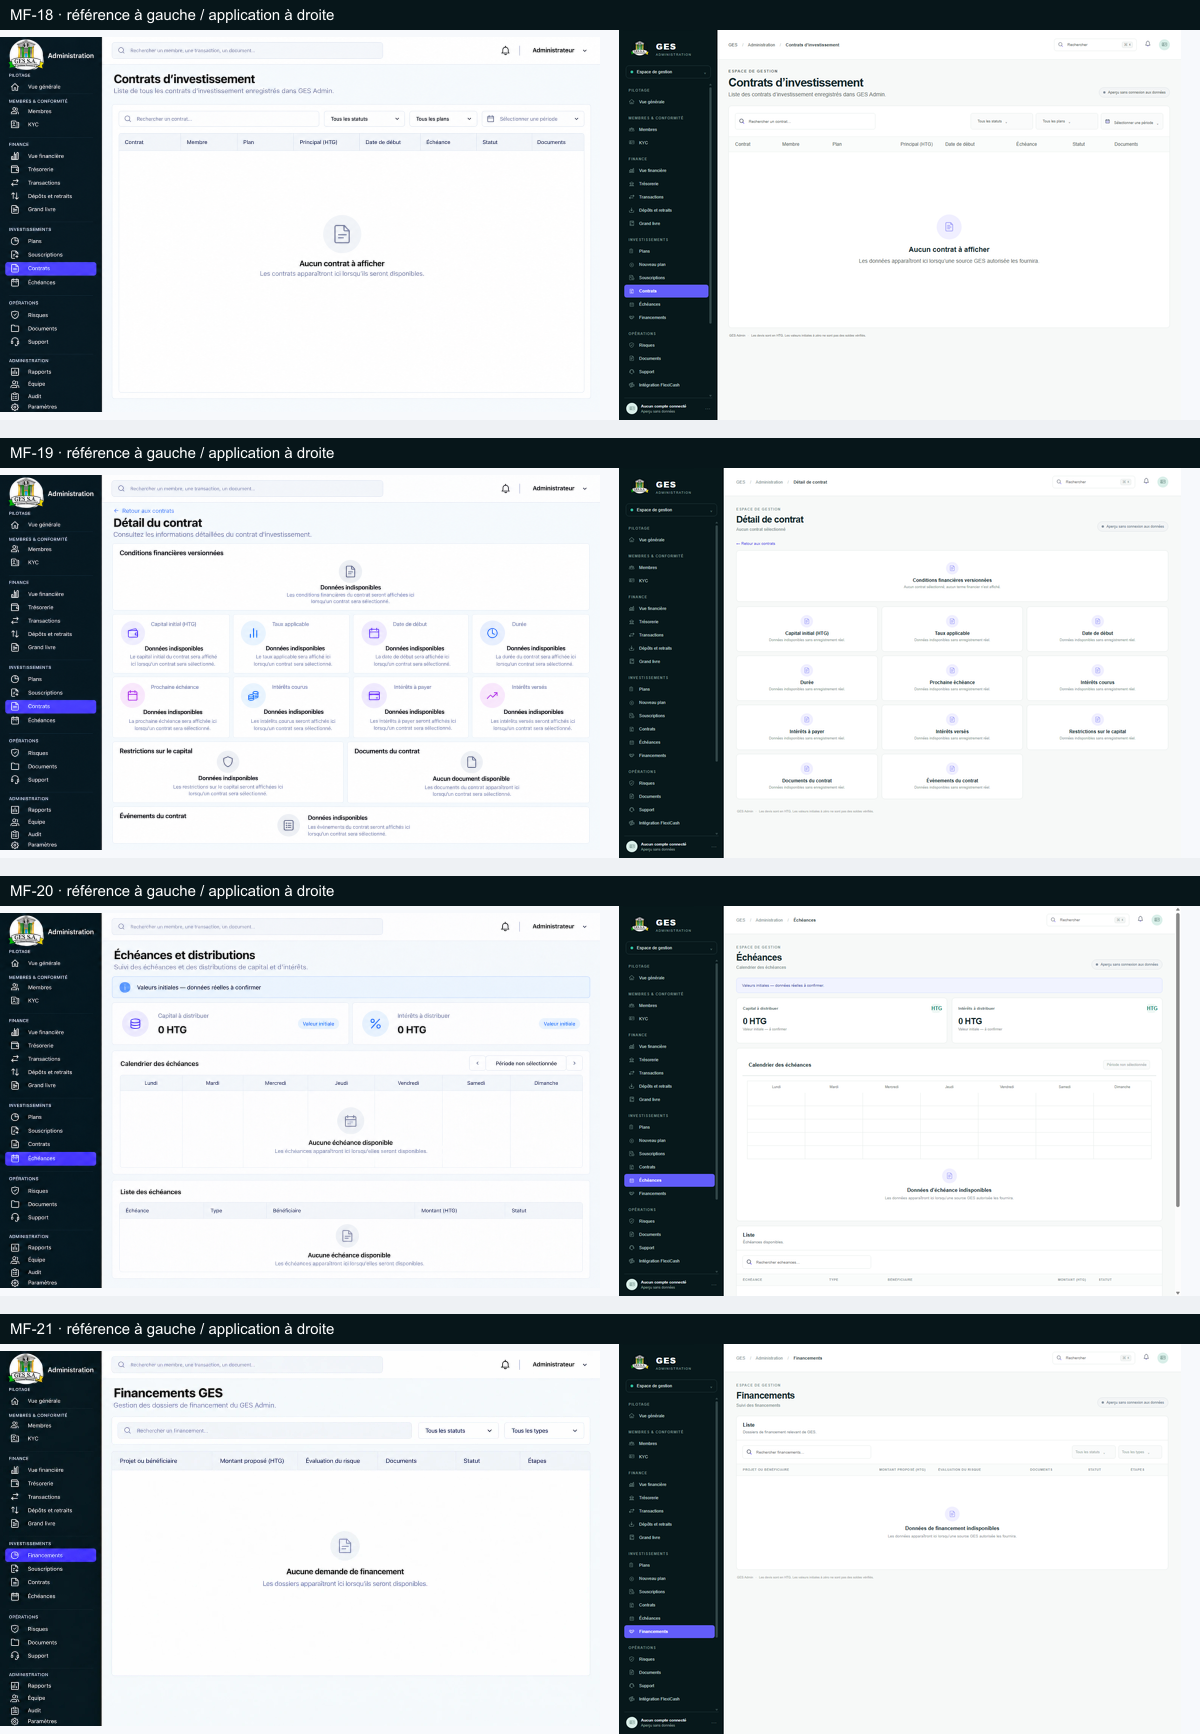
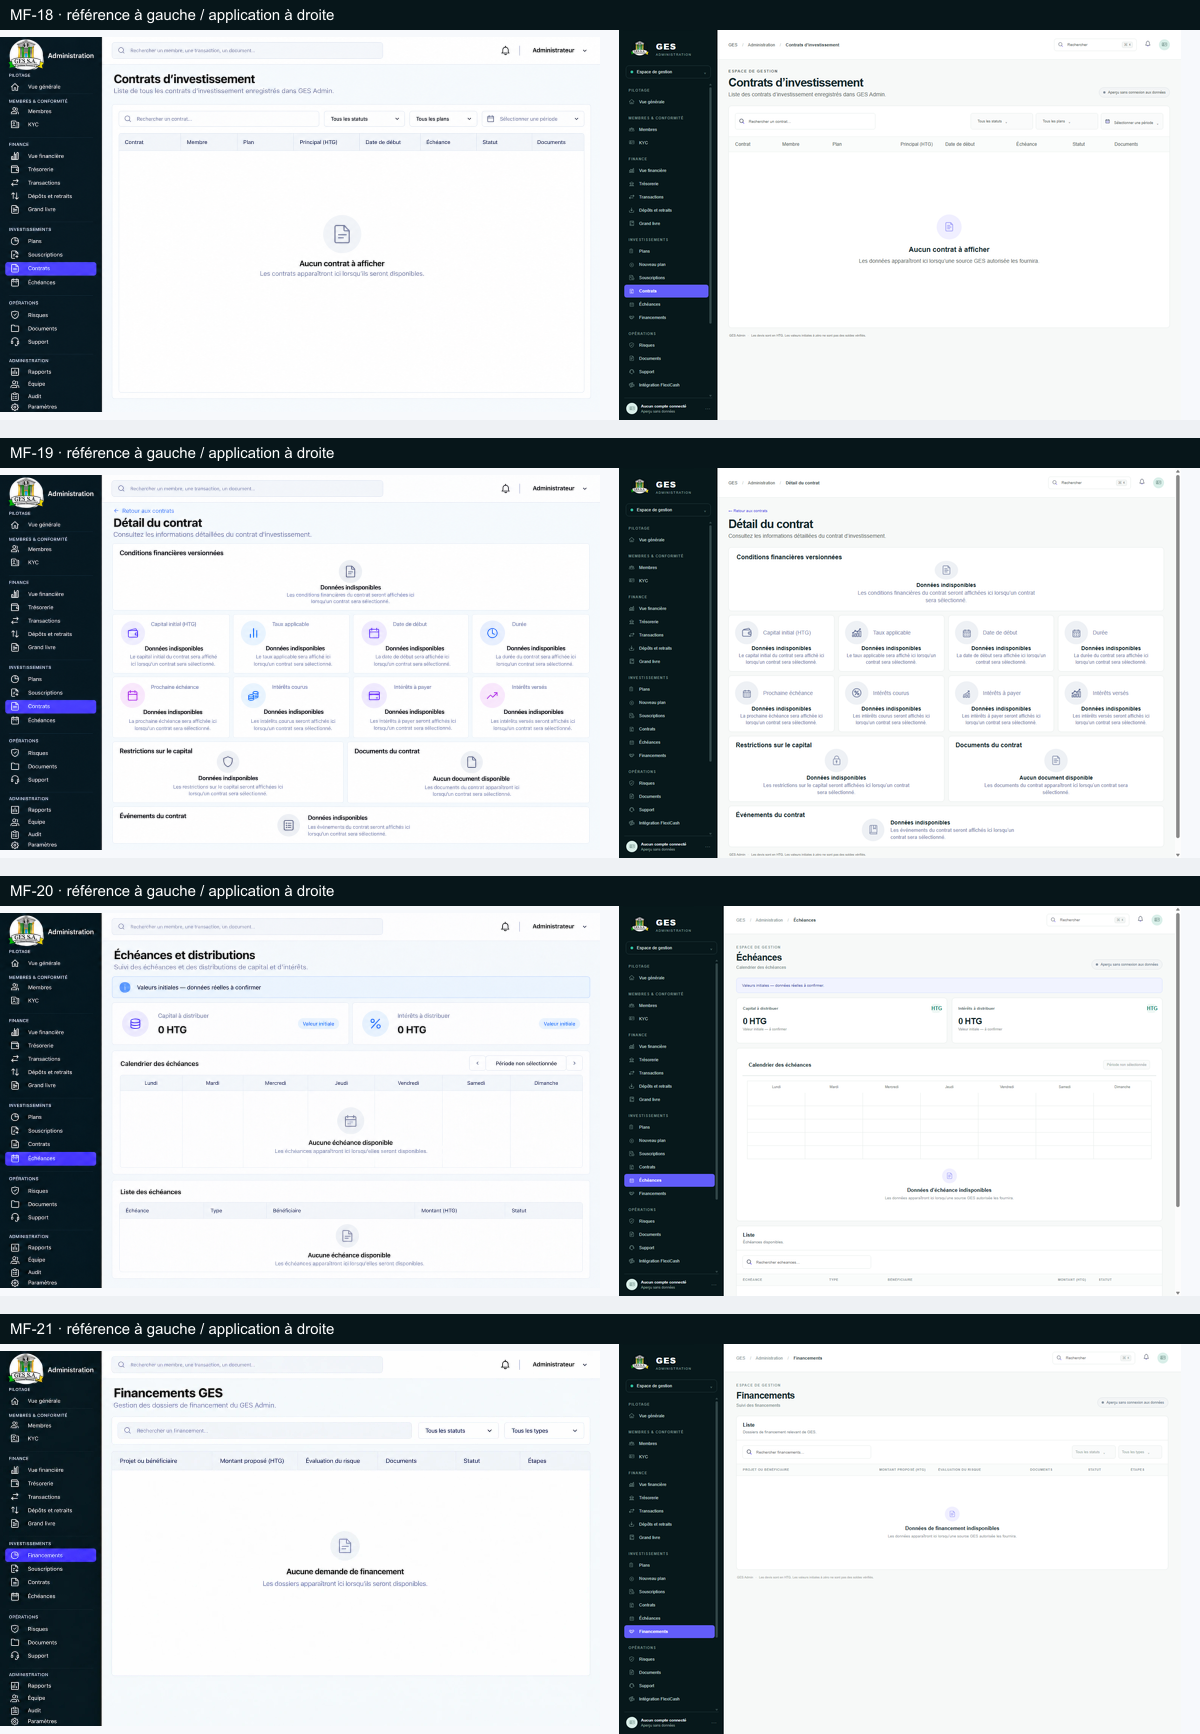
Align contract detail with MF-19

diff --git a/components/admin-shell.tsx b/components/admin-shell.tsx
@@ -34,7 +34,7 @@ const detailPages: Record<string, { title: string; subtitle: string }> = {
   "kyc/dossier": { title: "Dossier KYC", subtitle: "Aucun dossier sélectionné" },
   "transactions/dossier": { title: "Détail de transaction", subtitle: "Aucune transaction sélectionnée" },
   "souscriptions/dossier": { title: "Détail de la souscription", subtitle: "Informations détaillées sur la souscription sélectionnée dans GES Admin." },
-  "contrats/dossier": { title: "Détail de contrat", subtitle: "Aucun contrat sélectionné" },
+  "contrats/dossier": { title: "Détail du contrat", subtitle: "Consultez les informations détaillées du contrat d’investissement." },
   "risques/incident": { title: "Détail d’incident", subtitle: "Aucun incident sélectionné" },
   "support/conversation": { title: "Conversation de support", subtitle: "Aucun ticket sélectionné" },
   "etats-interface": { title: "États de l’interface", subtitle: "Références visuelles des états partagés" },
@@ -148,7 +148,7 @@ export function AdminShell({ section }: { section: string }) {
     </aside>
     {menuOpen && <button className="drawer-backdrop visible" type="button" aria-label="Fermer le menu" tabIndex={-1} onClick={closeMenu}/>}
     <main className="main-area" id="main-content" tabIndex={-1} inert={menuOpen}><header className="topbar"><button ref={menuButtonRef} className="mobile-menu-toggle" onClick={() => menuOpen ? closeMenu() : setMenuOpen(true)} aria-label={menuOpen ? "Fermer le menu" : "Ouvrir le menu"} aria-expanded={menuOpen} aria-controls="primary-navigation">{menuOpen ? <Image src="/assets/icons/close.webp" alt="" width={19} height={19}/> : <span className="menu-bars" aria-hidden="true"/>}</button><div className="breadcrumb">GES <span>/</span> Administration <span>/</span> <b>{page.title}</b></div><div className="top-actions"><label className="search"><Image src="/assets/icons/search.webp" alt="" width={15} height={15}/><input placeholder="Rechercher" aria-label="Rechercher" value={searchQuery} onChange={(event) => setSearchQuery(event.target.value)}/><kbd>⌘ K</kbd></label><Link href="/admin/notifications" className="bell" aria-label="Notifications"><Image src="/assets/icons/notification.webp" alt="" width={19} height={19}/></Link><div className="top-avatar"><Image src="/assets/icons/identity.webp" alt="" width={16} height={16}/></div></div></header>
-      <div className={`content ${key === "plans/nouveau" ? "plan-content" : ""}`}>{key === "souscriptions/dossier" && <Link className="detail-back" href="/admin/souscriptions">← Retour aux souscriptions</Link>}<div className="page-heading"><div>{key !== "transactions" && key !== "souscriptions/dossier" && <div className="eyebrow">ESPACE DE GESTION</div>}<h1>{page.title}</h1><p>{page.subtitle}</p></div><div className="heading-actions">{key !== "souscriptions/dossier" && <span className="status-pill preview-pill"><i/> Aperçu sans connexion aux données</span>}</div></div>
+      <div className={`content ${key === "plans/nouveau" ? "plan-content" : ""}`}>{key === "souscriptions/dossier" && <Link className="detail-back" href="/admin/souscriptions">← Retour aux souscriptions</Link>}{key === "contrats/dossier" && <Link className="detail-back" href="/admin/contrats">← Retour aux contrats</Link>}<div className="page-heading"><div>{key !== "transactions" && key !== "souscriptions/dossier" && key !== "contrats/dossier" && <div className="eyebrow">ESPACE DE GESTION</div>}<h1>{page.title}</h1><p>{page.subtitle}</p></div><div className="heading-actions">{key !== "souscriptions/dossier" && key !== "contrats/dossier" && <span className="status-pill preview-pill"><i/> Aperçu sans connexion aux données</span>}</div></div>
       {key === "notifications" ? <NotificationsWorkspace query={searchQuery} onQueryChange={setSearchQuery}/> : key === "plans/nouveau" ? <><Link href="/admin/plans" className="plan-back">← Retour aux plans</Link><PlanForm/></> : overview ? <>{financial && <div className="module-notice">Valeurs initiales — les montants affichés sont à confirmer et ne constituent pas des soldes vérifiés.</div>}<div className={`metric-grid ${financial ? "financial-metrics" : ""}`}>{metrics.map(([label,value,caption])=><MetricCard key={label} label={label} value={value} caption={caption}/>)}</div>
       {financial && <UsdUnavailable/>}
       <div className={`overview-grid ${financial ? "financial-overview-grid" : "command-overview-grid"}`}><section className="panel"><div className="panel-head"><div><h2>{financial ? "Tendance de trésorerie" : "Tendance financière"}</h2></div>{financial && <button className="select-button" disabled title="Les données sont indisponibles">Période⌄</button>}</div><div className="chart-empty"><div className="chart-lines"><span/><span/><span/><span/></div><div className="chart-message">Aucune donnée disponible</div></div></section><section className="panel breakdown"><div className="panel-head"><div><h2>{financial ? "Obligations à venir" : "Répartition des investissements"}</h2></div>{financial && <button className="dots" disabled aria-label="Options indisponibles">···</button>}</div>{financial ? <div className="donut-wrap"><p>Aucune donnée disponible</p></div> : <div className="donut-wrap"><div className="donut"><div/></div><p>Aucune donnée disponible</p></div>}</section></div>

diff --git a/components/detail-workspace.tsx b/components/detail-workspace.tsx
@@ -39,9 +39,22 @@ export function DetailWorkspace({ sectionKey }: { sectionKey: string }) {
     <section className="panel subscription-actions-panel"><h2>Actions suivantes autorisées</h2><div className="subscription-actions-empty"><Image src="/assets/icons/security.webp" alt="" width={34} height={34}/><strong>Actions indisponibles sans souscription réelle et autorisation confirmées.</strong><p>Veuillez sélectionner une souscription existante et confirmer l’autorisation pour activer les actions.</p></div></section>
   </>;
   if (sectionKey === "contrats/dossier") return <>
-    <BackLink href="/admin/contrats" label="Retour aux contrats"/>
-    <Unavailable title="Conditions financières versionnées" description="Aucun contrat sélectionné; aucun terme financier n’est affiché."/>
-    <div className="module-detail-grid">{["Capital initial (HTG)", "Taux applicable", "Date de début", "Durée", "Prochaine échéance", "Intérêts courus", "Intérêts à payer", "Intérêts versés", "Restrictions sur le capital", "Documents du contrat", "Événements du contrat"].map((title) => <Unavailable key={title} title={title}/>)}</div>
+    <section className="panel contract-terms-card"><h2>Conditions financières versionnées</h2><div className="contract-terms-state"><div className="detail-data-icon"><Image src="/assets/icons/document.webp" alt="" width={30} height={30}/></div><strong>Données indisponibles</strong><p>Les conditions financières du contrat seront affichées ici lorsqu’un contrat sera sélectionné.</p></div></section>
+    <div className="contract-value-grid">{[
+      ["Capital initial (HTG)", "wallet", "Le capital initial du contrat sera affiché ici lorsqu’un contrat sera sélectionné."],
+      ["Taux applicable", "analytics", "Le taux applicable sera affiché ici lorsqu’un contrat sera sélectionné."],
+      ["Date de début", "calendar", "La date de début sera affichée ici lorsqu’un contrat sera sélectionné."],
+      ["Durée", "calendar", "La durée du contrat sera affichée ici lorsqu’un contrat sera sélectionné."],
+      ["Prochaine échéance", "calendar", "La prochaine échéance sera affichée ici lorsqu’un contrat sera sélectionné."],
+      ["Intérêts courus", "interest", "Les intérêts courus seront affichés ici lorsqu’un contrat sera sélectionné."],
+      ["Intérêts à payer", "investment", "Les intérêts à payer seront affichés ici lorsqu’un contrat sera sélectionné."],
+      ["Intérêts versés", "analytics", "Les intérêts versés seront affichés ici lorsqu’un contrat sera sélectionné."],
+    ].map(([title, icon, description]) => <article className="panel contract-value-card" key={title}><div className="contract-value-head"><div className="contract-value-icon"><Image src={`/assets/icons/${icon}.webp`} alt="" width={30} height={30}/></div><h2>{title}</h2></div><div className="contract-value-state"><strong>Données indisponibles</strong><p>{description}</p></div></article>)}</div>
+    <div className="contract-secondary-grid">{[
+      ["Restrictions sur le capital", "security", "Les restrictions sur le capital seront affichées ici lorsqu’un contrat sera sélectionné."],
+      ["Documents du contrat", "document", "Les documents du contrat apparaîtront ici lorsqu’un contrat sera sélectionné."],
+    ].map(([title, icon, description]) => <article className="panel contract-secondary-card" key={title}><h2>{title}</h2><div className="contract-secondary-state"><div className="detail-data-icon"><Image src={`/assets/icons/${icon}.webp`} alt="" width={30} height={30}/></div><strong>{title.startsWith("Documents") ? "Aucun document disponible" : "Données indisponibles"}</strong><p>{description}</p></div></article>)}</div>
+    <section className="panel contract-events-card"><h2>Événements du contrat</h2><div className="contract-event-state"><div className="detail-data-icon"><Image src="/assets/icons/ledger.webp" alt="" width={30} height={30}/></div><div><strong>Données indisponibles</strong><p>Les événements du contrat seront affichés ici lorsqu’un contrat sera sélectionné.</p></div></div></section>
   </>;
   if (sectionKey === "risques/incident") return <>
     <BackLink href="/admin/risques" label="Retour aux alertes"/>

diff --git a/app/globals.css b/app/globals.css
@@ -62,3 +62,5 @@ a:focus-visible,button:focus-visible,input:focus-visible,select:focus-visible,te
 
 .plan-advanced-grid:has(> details[open])+.plan-publication-footer{display:grid}
 .subscription-detail-grid{gap:12px;margin:14px 0 18px}.subscription-detail-grid .detail-data-card{min-height:198px;align-items:stretch;justify-content:flex-start;padding:18px 22px;text-align:left}.subscription-detail-grid .detail-data-card>h2,.subscription-actions-panel>h2{font:700 16px Arial,Helvetica,sans-serif;margin:0}.subscription-detail-state{flex:1;display:flex;align-items:center;justify-content:center;flex-direction:column;text-align:center}.subscription-detail-state .detail-data-icon{width:64px;height:64px;margin-bottom:10px;background:#eef1f5}.subscription-detail-state .detail-data-icon img{width:30px;height:30px;filter:brightness(0) saturate(100%) invert(40%) sepia(13%) saturate(1200%) hue-rotate(188deg) brightness(90%)}.subscription-detail-state strong{font-size:16px;margin-bottom:3px}.subscription-detail-state p,.subscription-actions-empty p{margin:0;color:#7c88ac;font-size:14px;line-height:1.45}.subscription-actions-panel{padding:16px 20px;border-style:dashed}.subscription-actions-empty{display:flex;align-items:center;justify-content:center;flex-direction:column;text-align:center;padding:15px 0 4px}.subscription-actions-empty img{margin-bottom:7px;opacity:.6}.subscription-actions-empty strong{font-size:14px}.subscription-actions-empty p{margin-top:3px}
+.contract-terms-card{min-height:178px;padding:16px 20px}.contract-terms-card>h2,.contract-secondary-card>h2,.contract-events-card>h2{font:700 16px Arial,Helvetica,sans-serif;margin:0}.contract-terms-state{height:130px;display:flex;align-items:center;justify-content:center;flex-direction:column;text-align:center}.contract-terms-state .detail-data-icon,.contract-secondary-state .detail-data-icon{width:60px;height:60px;margin-bottom:6px;background:#eef1f5}.contract-terms-state .detail-data-icon img,.contract-secondary-state .detail-data-icon img,.contract-event-state .detail-data-icon img{width:30px;height:30px;filter:brightness(0) saturate(100%) invert(40%) sepia(13%) saturate(1200%) hue-rotate(188deg) brightness(90%)}.contract-terms-state strong,.contract-value-state strong,.contract-secondary-state strong,.contract-event-state strong{font-size:14px}.contract-terms-state p,.contract-value-state p,.contract-secondary-state p,.contract-event-state p{max-width:460px;margin:3px 0 0;color:#7c88ac;font-size:14px;line-height:1.4}.contract-value-grid{display:grid;grid-template-columns:repeat(4,minmax(0,1fr));gap:10px;margin:10px 0}.contract-value-card{min-height:156px;padding:14px 16px}.contract-value-head{display:flex;align-items:center;gap:12px}.contract-value-icon{width:60px;height:60px;flex:0 0 60px;border-radius:50%;display:grid;place-items:center;background:#eef1f5}.contract-value-icon img{width:30px;height:30px;filter:brightness(0) saturate(100%) invert(40%) sepia(13%) saturate(1200%) hue-rotate(188deg) brightness(90%)}.contract-value-head h2{margin:0;color:#7c88ac;font:500 14px Arial,Helvetica,sans-serif}.contract-value-state{text-align:center;padding-top:2px}.contract-value-state p{font-size:12px;line-height:1.4}.contract-secondary-grid{display:grid;grid-template-columns:repeat(2,minmax(0,1fr));gap:10px;margin:10px 0}.contract-secondary-card{min-height:160px;padding:14px 18px}.contract-secondary-state{display:flex;align-items:center;justify-content:center;flex-direction:column;text-align:center}.contract-secondary-state p{max-width:400px;font-size:13px}.contract-events-card{min-height:90px;padding:14px 18px}.contract-event-state{display:flex;align-items:center;justify-content:center;gap:16px;min-height:56px}.contract-event-state .detail-data-icon{width:58px;height:58px;background:#eef1f5}.contract-event-state p{max-width:360px;font-size:13px}@media(max-width:900px){.contract-value-grid{grid-template-columns:repeat(2,minmax(0,1fr))}}@media(max-width:700px){.contract-value-grid,.contract-secondary-grid{grid-template-columns:1fr}.contract-value-card{min-height:145px}.contract-event-state{align-items:flex-start}.contract-events-card{padding:14px}}
+.contract-terms-card{min-height:160px}.contract-terms-state{height:112px}.contract-value-card{min-height:145px}

diff --git a/design/project-status.md b/design/project-status.md
@@ -55,3 +55,5 @@ Revue MF-16 (29 octobre 2026) : sous-titre, recherche et casse des colonnes rapp
 Revue MF-17 (29 octobre 2026) : lien de retour avant le titre, titre/sous-titre alignes sur la reference, huit cartes detaillees avec icones distinctes et panneau d'actions verrouille. Aucun engagement, identite ou document fictif. Captures desktop/mobile; le navigateur confirme le titre, l'etat vide et aucune largeur de page superieure au viewport (1440/390 px). MF-17 reste non verrouille en attente de revue complete du shell.
 
 Revue MF-18 (29 octobre 2026) : sous-titre, recherche, filtres (dont icone de periode) et huit colonnes rapproches de la reference. Aucun contrat ni terme financier fictif; principal affiche en HTG. Captures desktop/mobile confirment l'etat vide et l'absence de debordement horizontal du viewport (1440/390 px).
+
+Revue MF-19 (29 octobre 2026) : retour avant le titre; conditions versionnees, huit valeurs, restrictions, documents et evenements affiches comme indisponibles sans contrat selectionne. Aucun terme financier, date ou evenement fictif. Principal identifie en HTG. Captures desktop/mobile; Chrome confirme le titre et aucune largeur de page superieure au viewport (1440/390 px).

diff --git a/design/qa/README.md b/design/qa/README.md
@@ -151,3 +151,5 @@ Captures MF-16 : admin-souscriptions-1440x1000.png et admin-souscriptions-390x84
 Captures MF-17 mises a jour : admin-souscriptions-dossier-1440x1000.png et admin-souscriptions-dossier-390x844.png. Le retour precede le titre; huit panneaux restent indisponibles sans souscription reelle et les actions sont inactives. Aucun engagement ni montant fictif.
 
 Captures MF-18 : admin-contrats-1440x1000.png et admin-contrats-390x844.png. Le registre est vide, le principal est libelle en HTG et les filtres de statut, plan et periode restent inactifs sans source de donnees.
+
+Captures MF-19 : admin-contrats-dossier-1440x1000.png et admin-contrats-dossier-390x844.png. Les termes, montants, dates, restrictions, documents et evenements restent indisponibles sans contrat selectionne; aucun chiffre fictif n'est affiche.
